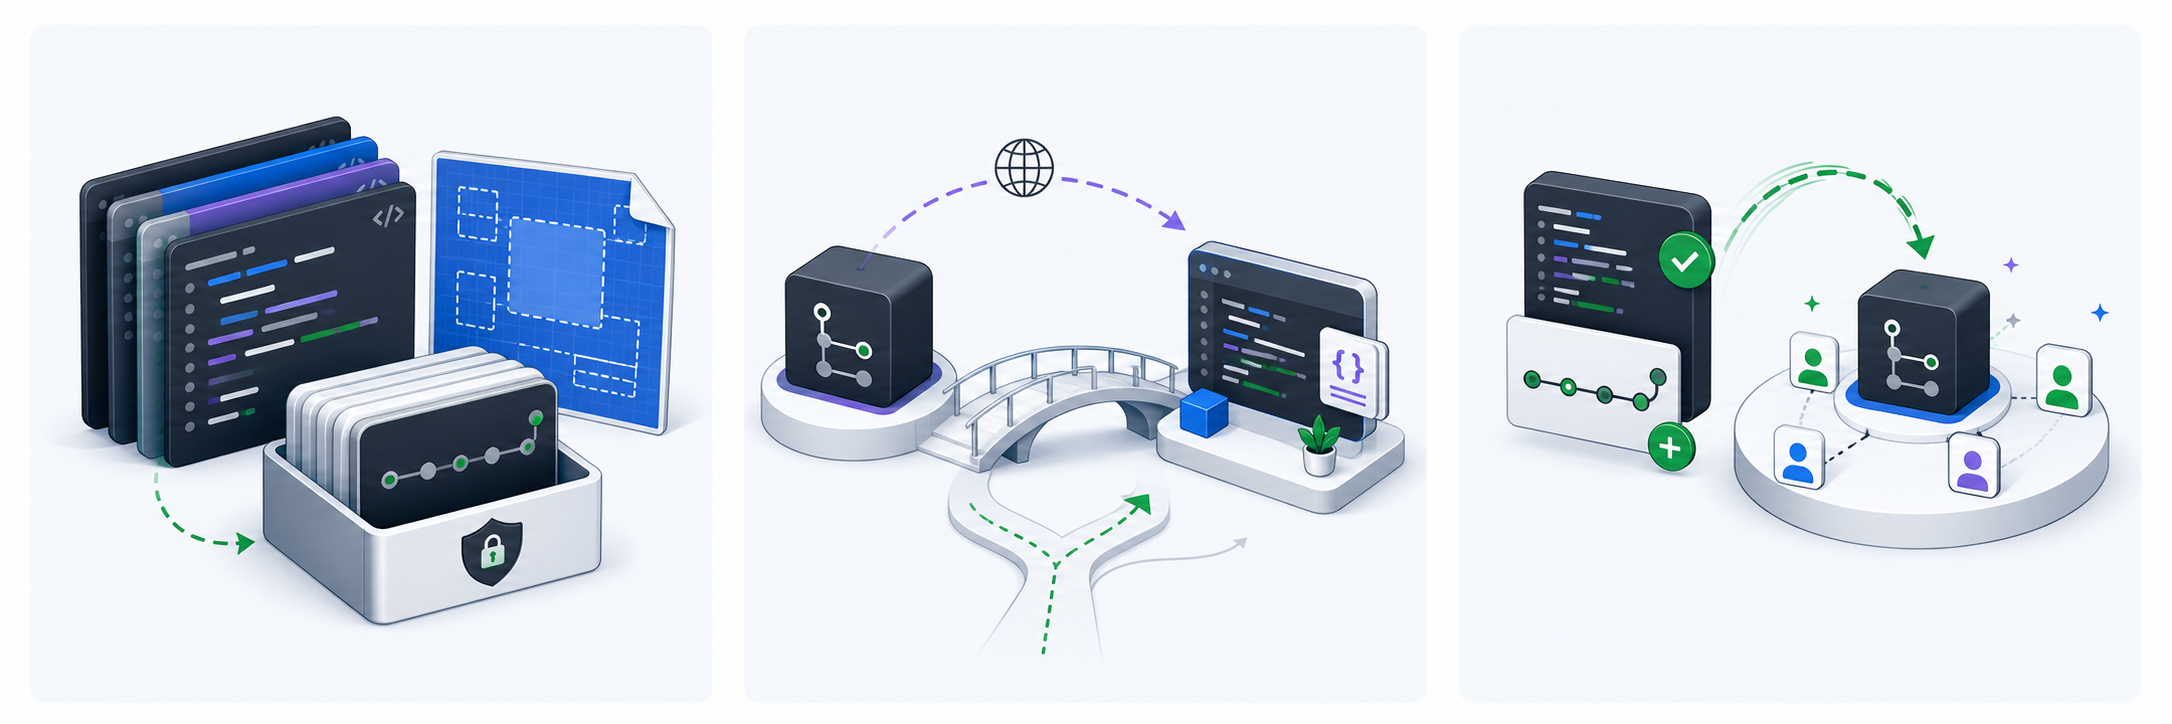
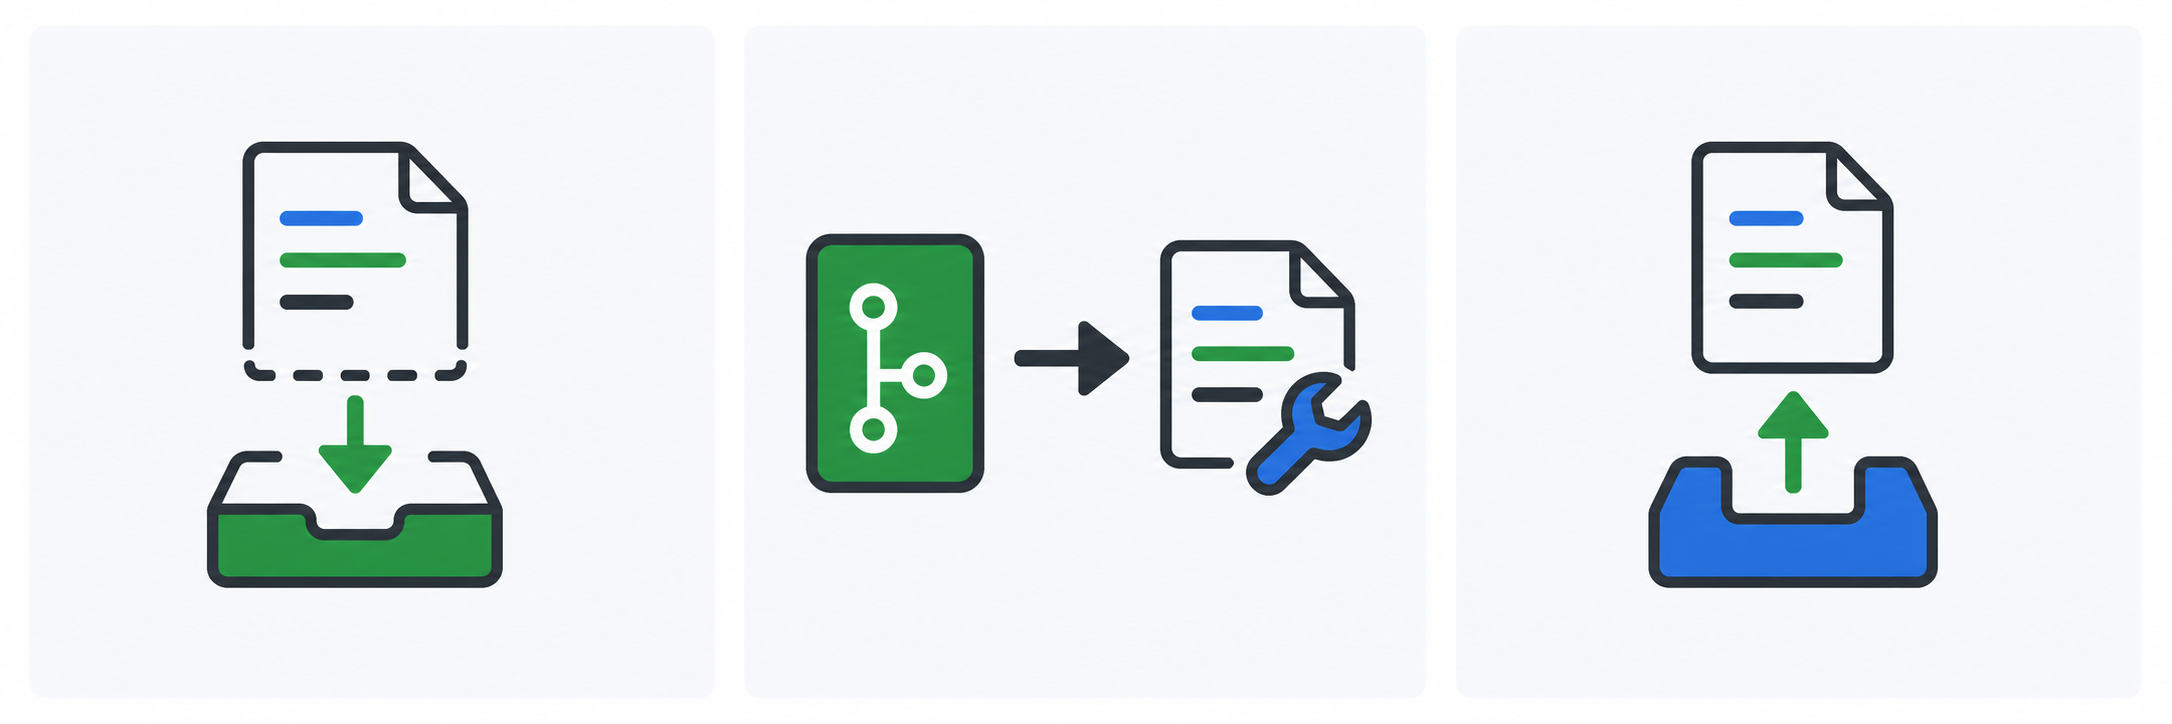
refactor: simplify onboarding visuals

diff --git a/app/globals.css b/app/globals.css
@@ -338,7 +338,7 @@ textarea:focus-visible {
   gap: 12px;
 }
 
-.repository-preview {
+.session-preview {
   background: #0d1117;
   border: 1px solid #30363d;
   border-radius: 10px;
@@ -349,143 +349,135 @@ textarea:focus-visible {
   transform: perspective(900px) rotateY(-3deg) rotateX(1deg);
 }
 
-.repository-preview-header {
+.session-preview-header {
   align-items: center;
   background: #161b22;
   border-bottom: 1px solid #30363d;
   color: #f0f6fc;
   display: flex;
-  font-family: var(--font-geist-mono), monospace;
-  font-size: 12px;
-  gap: 10px;
-  padding: 14px 16px;
+  gap: 12px;
+  padding: 15px 17px;
 }
 
-.repository-preview-mark {
+.session-preview-header > div {
+  display: flex;
+  flex-direction: column;
+  gap: 2px;
+}
+
+.session-preview-header strong {
+  font-family: var(--font-geist-mono), monospace;
+  font-size: 12px;
+}
+
+.session-preview-header small {
+  color: #8b949e;
+  font-size: 10px;
+}
+
+.session-preview-icon {
   align-items: center;
   background: #30363d;
   border-radius: 6px;
   color: #7ee787;
   display: inline-flex;
-  font-size: 10px;
-  height: 26px;
+  font-family: var(--font-geist-mono), monospace;
+  font-size: 9px;
+  height: 30px;
   justify-content: center;
-  width: 30px;
+  width: 34px;
 }
 
-.preview-visibility {
-  border: 1px solid #57606a;
+.session-preview-badge,
+.session-public-badge {
+  background: rgba(46, 160, 67, 0.12);
+  border: 1px solid rgba(126, 231, 135, 0.35);
   border-radius: 999px;
-  color: #8b949e;
-  font-family: "Mona Sans", sans-serif;
+  color: #7ee787;
   font-size: 10px;
   margin-left: auto;
-  padding: 2px 7px;
+  padding: 3px 8px;
 }
 
-.repository-preview-tabs {
-  background: #0d1117;
-  border-bottom: 1px solid #30363d;
-  display: flex;
-  gap: 4px;
-  padding: 0 14px;
-}
-
-.repository-preview-tabs span {
-  border-bottom: 2px solid transparent;
-  color: #8b949e;
-  font-size: 11px;
-  padding: 11px 9px 9px;
-}
-
-.repository-preview-tabs .active {
-  border-bottom-color: #fd8c73;
-  color: #f0f6fc;
-}
-
-.repository-preview-body {
-  min-height: 305px;
-  padding: 20px;
-}
-
-.preview-file-heading {
-  align-items: center;
-  border: 1px solid #30363d;
-  border-radius: 6px 6px 0 0;
+.session-preview-body {
   color: #c9d1d9;
   display: flex;
-  font-size: 11px;
-  justify-content: space-between;
-  padding: 10px 12px;
+  flex-direction: column;
+  gap: 18px;
+  min-height: 330px;
+  padding: 26px;
 }
 
-.preview-file-heading > div {
+.session-command {
   align-items: center;
   display: flex;
-  gap: 8px;
-}
-
-.preview-file-heading small {
-  color: #8b949e;
-}
-
-.preview-status-dot {
-  background: #3fb950;
-  border-radius: 50%;
-  display: inline-block;
-  height: 8px;
-  width: 8px;
-}
-
-.preview-definition-list {
-  border: 1px solid #30363d;
-  border-radius: 0 0 6px 6px;
-  font-family: var(--font-geist-mono), monospace;
-  font-size: 11px;
-  margin: 0;
-  padding: 7px 0;
-}
-
-.preview-definition-list > div {
-  display: grid;
   gap: 12px;
-  grid-template-columns: 118px minmax(0, 1fr);
-  padding: 7px 12px;
 }
 
-.preview-definition-list dt {
+.session-command > span {
+  border: 1px solid #30363d;
+  border-radius: 999px;
   color: #8b949e;
+  flex: 0 0 auto;
+  font-family: var(--font-geist-mono), monospace;
+  font-size: 9px;
+  padding: 2px 6px;
 }
 
-.preview-definition-list dd {
-  color: #79c0ff;
-  margin: 0;
+.session-command code {
+  color: #c9d1d9;
+  font-family: var(--font-geist-mono), monospace;
+  font-size: 12px;
   overflow-wrap: anywhere;
 }
 
-.preview-definition-list .preview-ok {
-  color: #7ee787;
-}
-
-.preview-footer {
-  align-items: center;
-  color: #8b949e;
+.session-result {
+  background: #161b22;
+  border: 1px solid #30363d;
+  border-left: 3px solid #58a6ff;
+  border-radius: 6px;
   display: flex;
-  flex-wrap: wrap;
-  font-size: 10px;
+  flex-direction: column;
   gap: 7px;
-  margin-top: 15px;
+  padding: 16px 18px;
 }
 
-.preview-footer > span {
-  background: #21262d;
-  border-radius: 999px;
-  padding: 4px 8px;
+.session-result > div {
+  align-items: center;
+  display: flex;
+  gap: 10px;
 }
 
-.preview-footer strong {
-  color: #7ee787;
+.session-result strong {
+  color: #58a6ff;
+  font-size: 14px;
+}
+
+.session-result p,
+.session-result small {
+  color: #8b949e;
+  margin: 0;
+}
+
+.session-result p {
+  font-size: 12px;
+}
+
+.session-result small {
+  font-size: 10px;
+}
+
+.session-public-badge {
   margin-left: auto;
+}
+
+.session-success {
+  align-items: center;
+  color: #7ee787;
+  display: flex;
+  font-size: 12px;
+  gap: 8px;
+  margin: 0 0 0 36px;
 }
 
 .section-container,
@@ -2209,7 +2201,7 @@ textarea {
     padding: 64px 24px 72px;
   }
 
-  .repository-preview {
+  .session-preview {
     transform: none;
   }
 
@@ -2392,12 +2384,13 @@ textarea {
     grid-column: 2;
   }
 
-  .repository-preview-body {
-    padding: 14px;
+  .session-preview-body {
+    min-height: 300px;
+    padding: 18px;
   }
 
-  .preview-definition-list > div {
-    grid-template-columns: 100px minmax(0, 1fr);
+  .session-command code {
+    font-size: 11px;
   }
 
   .concept-illustration {

diff --git a/app/page.tsx b/app/page.tsx
@@ -40,54 +40,38 @@ export default async function Home() {
               </div>
             </div>
 
-            <div className="repository-preview">
-              <div className="repository-preview-header">
-                <span className="repository-preview-mark" aria-hidden="true">
-                  {"<>"}
+            <div className="session-preview">
+              <div className="session-preview-header">
+                <span className="session-preview-icon" aria-hidden="true">
+                  {"</>"}
                 </span>
-                <strong>study-streak</strong>
-                <span className="preview-visibility">Public</span>
-              </div>
-              <div className="repository-preview-tabs" aria-hidden="true">
-                <span className="active">Overview</span>
-                <span>Environment</span>
-                <span>Learning</span>
-              </div>
-              <div className="repository-preview-body">
-                <div className="preview-file-heading">
-                  <div>
-                    <span className="preview-status-dot" />
-                    <strong>project.yml</strong>
-                  </div>
-                  <small>開発環境を確認済み</small>
+                <div>
+                  <strong>learning/session</strong>
+                  <small>Public Repository</small>
                 </div>
-                <dl className="preview-definition-list">
-                  <div>
-                    <dt>status</dt>
-                    <dd>unfinished</dd>
-                  </div>
-                  <div>
-                    <dt>runtime</dt>
-                    <dd>Node.js 22.x</dd>
-                  </div>
-                  <div>
-                    <dt>package manager</dt>
-                    <dd>pnpm 10</dd>
-                  </div>
-                  <div>
-                    <dt>lockfile</dt>
-                    <dd className="preview-ok">committed</dd>
-                  </div>
-                  <div>
-                    <dt>next idea</dt>
-                    <dd>タイムゾーン対応</dd>
-                  </div>
-                </dl>
-                <div className="preview-footer">
-                  <span>Next.js</span>
-                  <span>TypeScript</span>
-                  <strong>ビヨンドできる →</strong>
+                <span className="session-preview-badge">Ready</span>
+              </div>
+              <div className="session-preview-body">
+                <div className="session-command">
+                  <span>01</span>
+                  <code>hunger explore --tech typescript</code>
                 </div>
+                <div className="session-result">
+                  <div>
+                    <strong>Study Streak</strong>
+                    <span className="session-public-badge">Public</span>
+                  </div>
+                  <p>Next.js · Supabase · Tailwind CSS</p>
+                  <small>危険度 D · 18 beyonds</small>
+                </div>
+                <div className="session-command">
+                  <span>02</span>
+                  <code>hunger beyond study-streak</code>
+                </div>
+                <p className="session-success">
+                  <span aria-hidden="true">✓</span>
+                  Repositoryを開きました
+                </p>
               </div>
             </div>
           </div>

diff --git a/app/projects/page.tsx b/app/projects/page.tsx
@@ -46,7 +46,7 @@ export default async function ProjectsPage({
           <div>
             <span className="eyebrow">EXPLORE</span>
             <h1>Projectを探す</h1>
-            <p>誰かが作り切れなかったコードから、次の学びを見つけます。</p>
+            <p>未完成のコードから、次の学びを見つけましょう。</p>
           </div>
           <Link className="button button-secondary" href="/projects/new">
             ＋ Projectを投稿
